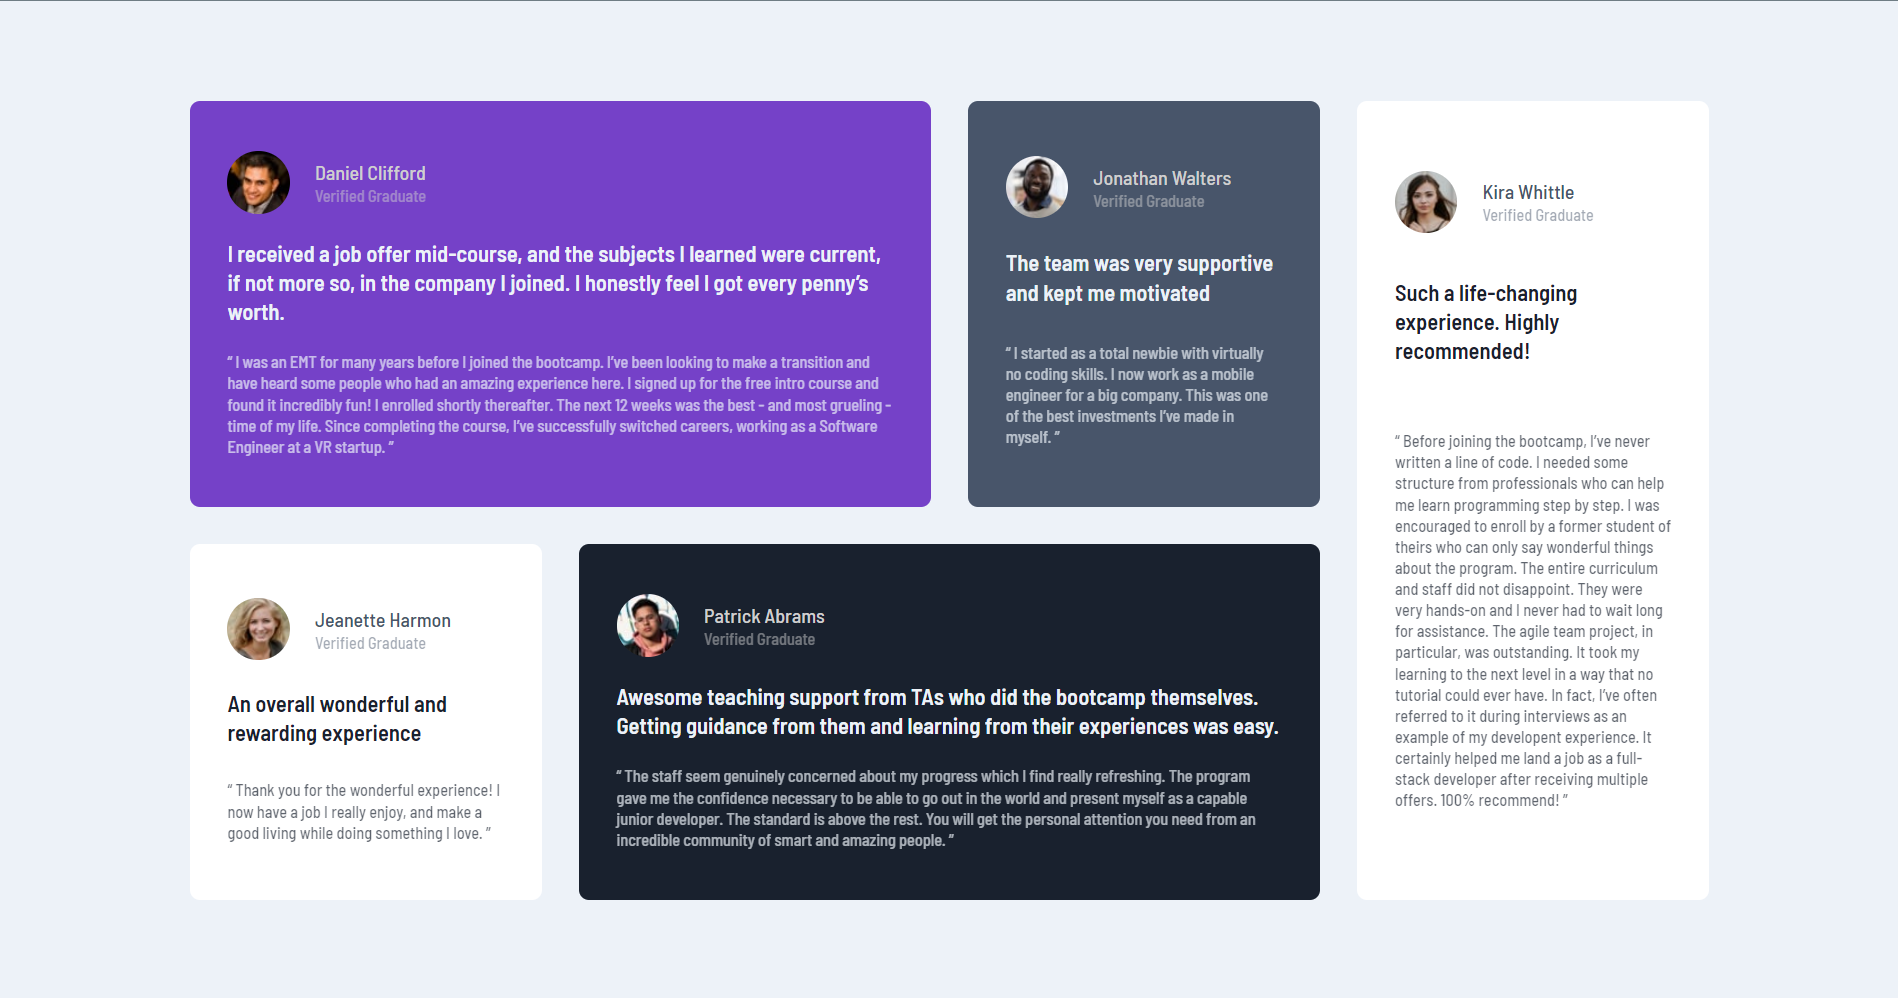
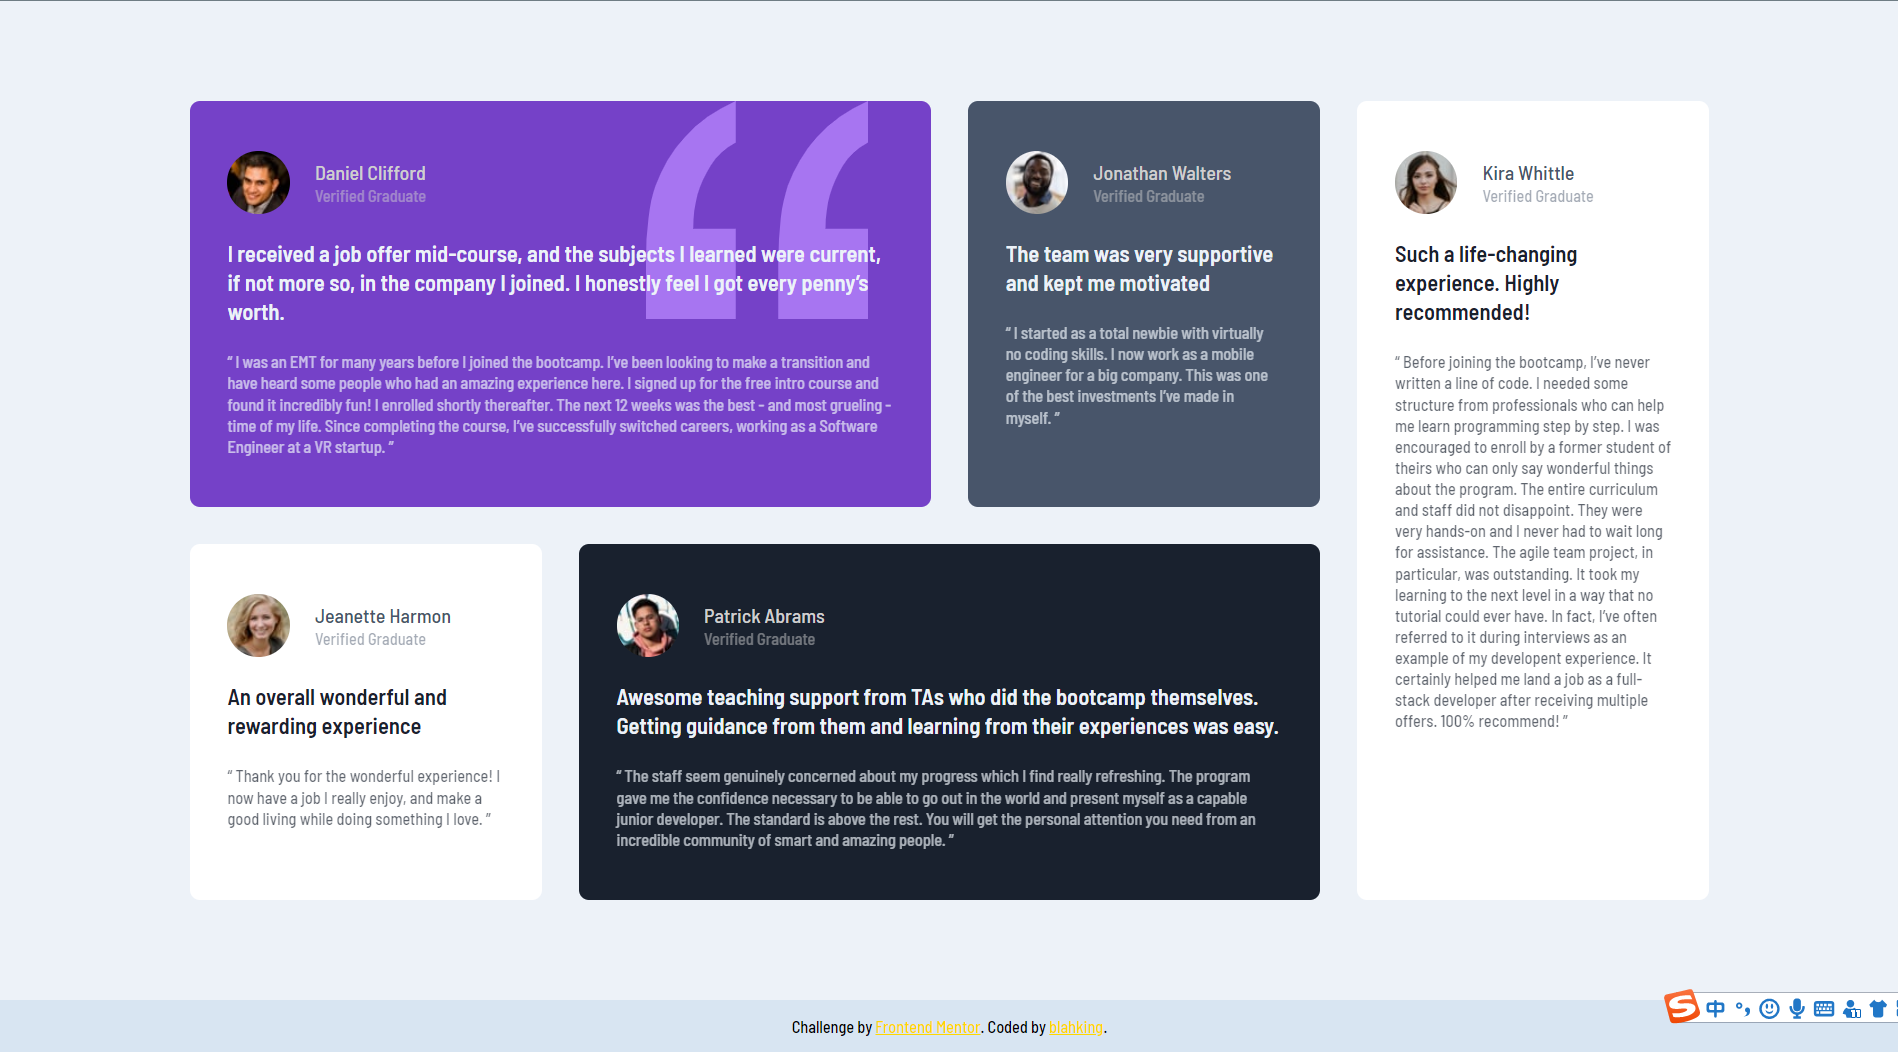
update

diff --git a/03-frontend-mentor-3/style.css b/03-frontend-mentor-3/style.css
@@ -23,13 +23,14 @@ body {
   background-color: hsl(0, 0%, 100%);
   border-radius: 8px;
   padding: 40px 30px;
-  display: grid;
-  grid-template-columns: 1fr;
-  row-gap: 20px;
 }
 
 .testimonial:nth-child(1) {
   background-color: hsl(263, 55%, 52%);
+  background-image: url(./images/bg-pattern-quotation.svg);
+  background-size: 30%;
+  background-repeat: no-repeat;
+  background-position: top right 50px;
 }
 
 .testimonial:nth-child(2) {
@@ -87,10 +88,21 @@ body {
 .text-1 {
   font-size: 18px;
   font-weight: 600;
+  margin: 20px 0;
 }
 
 .text-2 {
   opacity: 0.7;
+}
+
+.attribution {
+  text-align: center;
+  padding: 1em 0;
+  background-color: #d8e5f2;
+}
+
+.attribution a {
+  color: gold;
 }
 
 @media (min-width: 1200px) {

diff --git a/03-frontend-mentor-3/index.html b/03-frontend-mentor-3/index.html
@@ -115,5 +115,10 @@
         </p>
       </div>
     </div>
+    <div class="attribution">
+      Challenge by
+      <a href="https://www.frontendmentor.io?ref=challenge" target="_blank">Frontend Mentor</a>.
+      Coded by <a href="https://github.com/blahking" target="_blank">blahking</a>.
+    </div>
   </body>
 </html>
